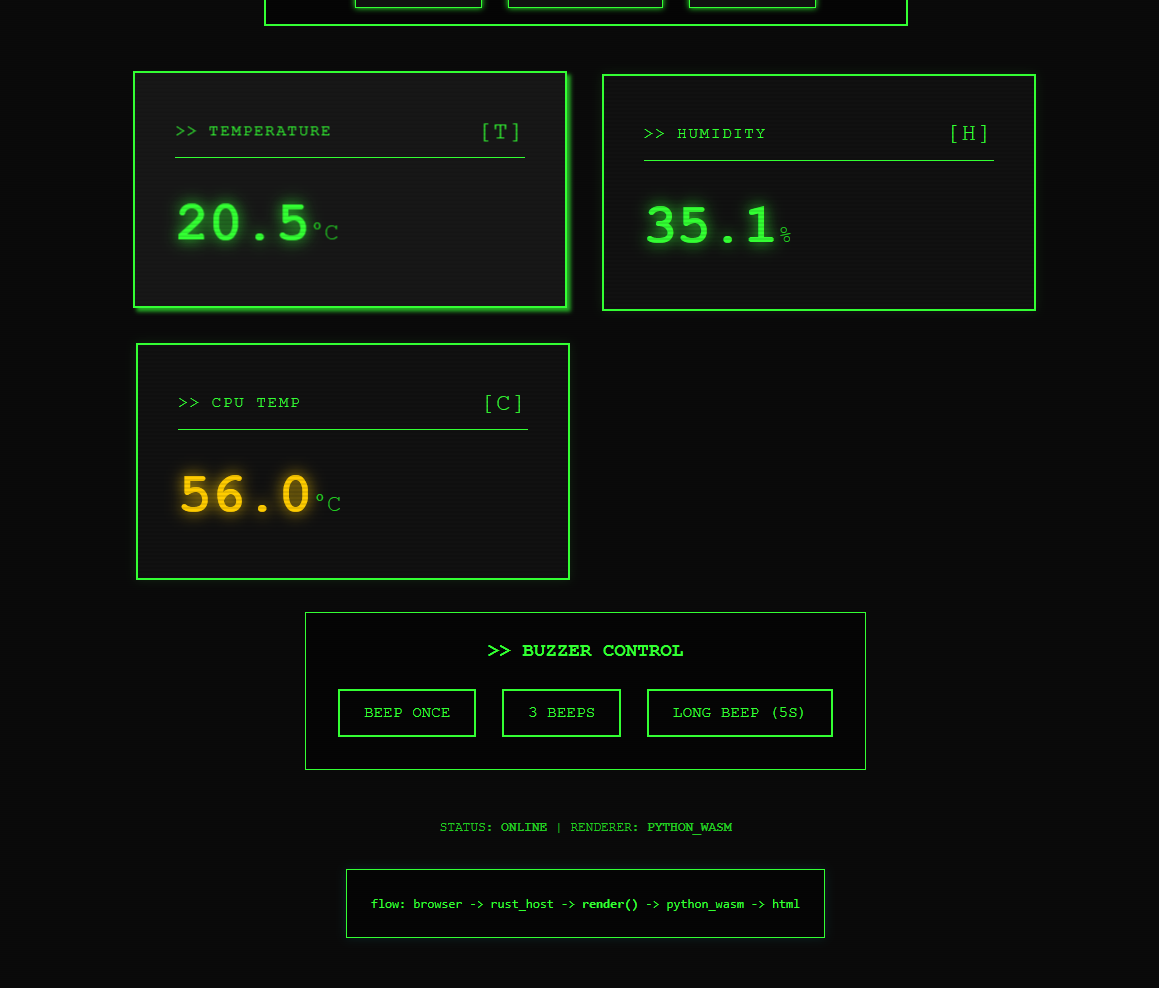
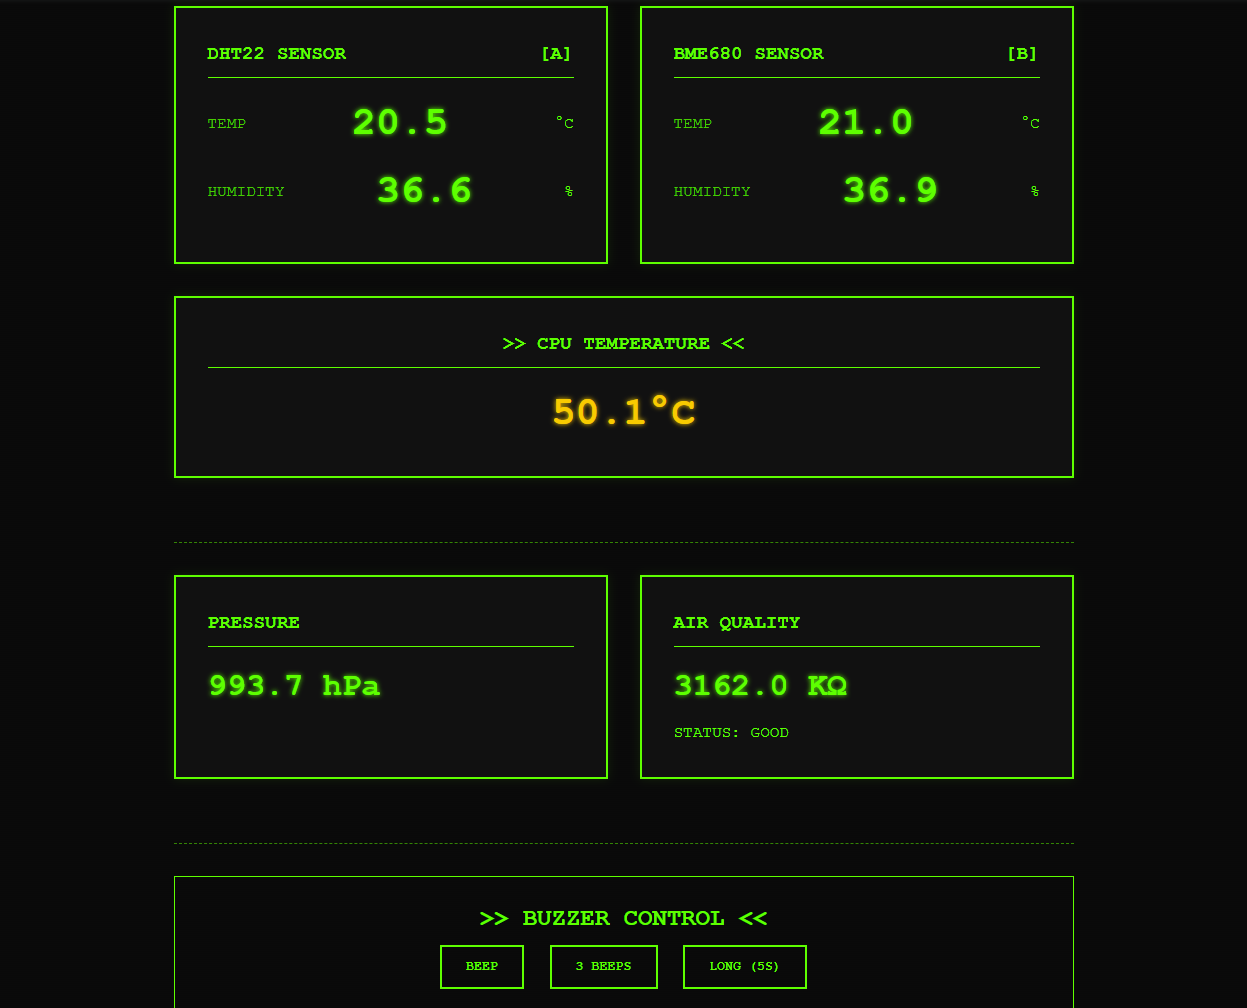
docs: add architecture deep dive and update showcase

diff --git a/docs/advanced_architecture.md b/docs/advanced_architecture.md
@@ -1,0 +1,73 @@
+# Architecture Deep Dive: WASI Python Host
+
+This document explains the internal mechanics of the **Stateful WASM Host**. It details how we achieve **secure plugin execution**, **hot reloading**, and **state persistence** for Python modules on embedded hardware.
+
+## The Component Model (WIT)
+
+The core is the **WebAssembly Component Model**. Unlike traditional linking, components communicate via high-level, typed interfaces defined in WIT (Wasm Interface Type) files.
+
+### The Contract (`plugin.wit`)
+The `.wit` file is the source of truth. It defines:
+1.  **Imports**: Capabilities the Host *gives* to the Guest (e.g., `gpio-provider`).
+2.  **Exports**: Functions the Guest *provides* to the Host (e.g., `sensor-logic.poll`).
+
+## Runtime Lifecycle
+
+### 1. Initialization (`WasmRuntime::new`)
+*   The Rust host initializes a `wasmtime::Engine`.
+*   It loads `.wasm` files from disk.
+*   It creates a **Linker** and links the host's `HostState` (which implements capabilities).
+*   **Key Innovation**: It instantiates the Python interpreter inside WASM *once* and stores the `Store` and `Instance` in a `PluginState` struct.
+
+### 2. State Persistence
+In earlier versions, we re-instantiated the plugin every poll cycle. This was safe but stateless—Python global variables were reset every 5 seconds.
+
+**Current Architecture (Stateful):**
+*   The `Store` (memory) and `Instance` (execution context) are kept alive in `Arc<Mutex<PluginState>>`.
+*   When `poll()` is called, we reuse the *existing* instance.
+*   **Benefit**: Python global variables (e.g., `high_alarm_active`) persist forever (until reload). This enables sticky logic like **Alarm Hysteresis**.
+
+### 3. Hot Reloading (`check_hot_reload`)
+Before every poll, the host checks the file modification time of the `.wasm` file.
+*   **If changed**:
+    1.  The host locks the plugin mutex.
+    2.  It loads the new `.wasm` bytes.
+    3.  It creates a *new* `Store` and `Instance`.
+    4.  It replaces the old `PluginState` with the new one.
+*   **Result**: The next poll uses the new logic. The old state is dropped (garbage collected).
+
+## Concurrency Model
+
+The host runs on **Tokio**, an async runtime for Rust.
+
+### The Mutex Challenge
+Standard `std::sync::Mutex` locks cannot be held across `.await` points because they are not `Send` (they are tied to a specific OS thread).
+Since our WASM execution matches the async nature of the host (potentially waiting on I/O), we use `tokio::sync::Mutex`.
+
+*   **Flow**:
+    ```rust
+    // runtime.rs
+    let mut guard = self.sensor_plugin.lock().await; // Async wait for lock
+    let result = guard.instance.call_poll(...).await; // Run WASM
+    ```
+*   This ensures the web server and polling loop can access plugins concurrently without blocking the entire system.
+
+## Data Flow
+
+1.  **Poll Loop** (Rust) triggers every 5s.
+2.  Calls `runtime.poll_sensors()`.
+3.  Runtime enters WASM Sandbox (Python).
+4.  Python calls `gpio_provider.read_dht22()`.
+5.  Runtime exits WASM, executes Rust `gpio::read_dht22` (via `spawn_blocking` to avoid blocking async runtime).
+6.  Rust returns tuple `(temp, hum)` to Python.
+7.  Python processes logic (Hysteresis, coloring).
+8.  Python calls `led_controller.set_two()`.
+9.  Host updates physical LEDs.
+10. Python returns `SensorReading` list to Host.
+11. Host updates shared `AppState`.
+
+## Security
+
+*   **Sandboxing**: The Python code cannot open files or sockets. It can *only* call functions imported from `plugin.wit`.
+*   **Resource Limits**: Wasmtime limits CPU and Memory usage per instance (configurable).
+*   **Isolation**: If the Python plugin panics, it returns a Rust `Err`, which we catch and log. The Host continues running.

diff --git a/README.md b/README.md
@@ -12,7 +12,8 @@ A reference implementation demonstrating **Python WASM modules** reading **real 
 
 ## The Key Demonstration
 
-This project shows the **WASI capability model** in action:
+This project shows the **WASI capability model** in action.
+> 📘 **Deep Dive**: See [Architecture Deep Dive](docs/advanced_architecture.md) for details on State Persistence, Hysteresis, and the Component Model.
 
 ```
 ┌──────────────────────────────────────────────────────────────┐
@@ -158,11 +159,18 @@ This `/api` endpoint enables:
 To run this demo, you need:
 1.  **Raspberry Pi** (3, 4, or 5)
 2.  **DHT22 Temperature/Humidity Sensor**
-3.  **Wiring**:
+3.  **BME680 Environmental Sensor (I2C)**
+4.  **Wiring**:
     *   **VCC (+) [Pin 1]** → 3.3V (Physical Pin 1)
     *   **Data [Pin 2]** → **GPIO 4 (Physical Pin 7)**
     *   **GND (-) [Pin 4]** → Ground (Physical Pin 6)
     *   *Note: Most modules have a built-in pull-up resistor. If using a raw sensor, add a 4.7kΩ resistor between VCC and Data.*
+    
+    **BME680 (I2C)**:
+    *   **VCC** → 3.3V
+    *   **GND** → Ground
+    *   **SDA** → GPIO 2 (Pin 3)
+    *   **SCL** → GPIO 3 (Pin 5)
 
 > **Why GPIO 4?** The host is hardcoded to use BCM GPIO 4 (Physical Pin 7) for simplicity in this demo.
 

diff --git a/SHOWCASE.md b/SHOWCASE.md
@@ -88,6 +88,9 @@ If you just wanted to read a sensor, a 5-line Python script is fine.
 | 1   | Red    | Room > 30°C       |
 | 1   | Blue   | Room < 15°C       |
 | 1   | Cyan   | Humidity > 80%    |
+| 2   | Green  | Air Quality Good (>50KΩ)|
+| 2   | Yellow | Air Quality Mod (10-50KΩ)|
+| 2   | Red    | Air Quality Bad (<10KΩ) |
 
 Buzzer sounds on high temp (3 beeps) or high humidity (2 beeps).
 
